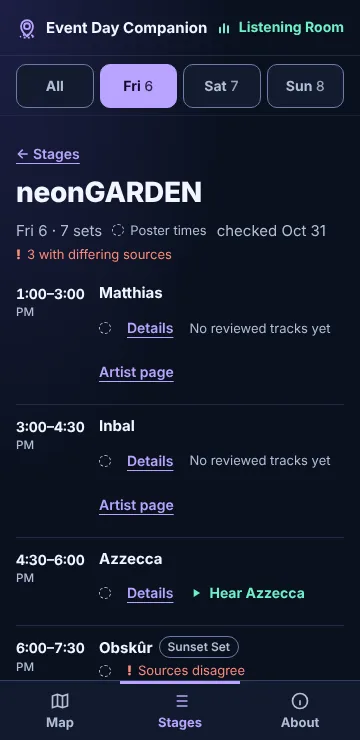
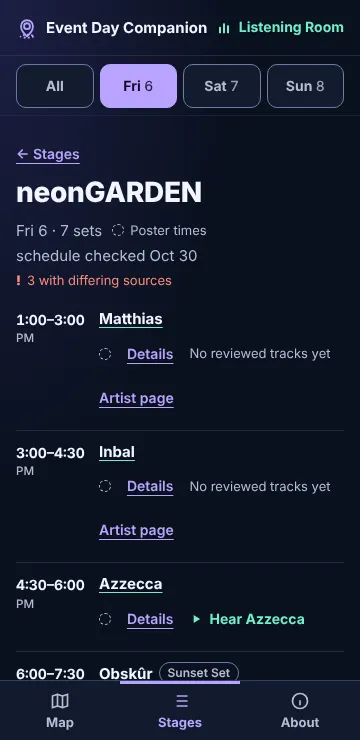
docs(companion): design corrections - wide page wrapper, both meridiems, schedule-source freshness, linked billings; record violet + side panel decisions
Claude-Session: https://claude.ai/code/session_01J577La5FJW7edLV2bkfmxS

diff --git a/docs/companion-design/wireframe/index.html b/docs/companion-design/wireframe/index.html
@@ -111,6 +111,10 @@ ul.sets{list-style:none;margin:0;padding:0}
 .peek-next b{color:var(--text);font-variant-numeric:tabular-nums}
 /* list pages */
 .page{position:absolute;inset:0;overflow:auto;padding:16px var(--gutter) 24px}
+.page-inner,.page>*{max-width:760px;margin-left:auto;margin-right:auto}
+.page-inner>*{max-width:none}
+.billing-link{color:var(--text);text-decoration:underline;text-decoration-color:var(--mint);text-underline-offset:3px}
+.billing-link:hover{color:var(--mint)}
 .page h1{font-family:var(--display);font-weight:800;font-size:clamp(1.5rem,5vw,2rem);letter-spacing:-.015em;margin-bottom:4px}
 .page .lede{color:var(--muted);font-size:.9375rem;margin-bottom:14px;max-width:40em}
 ul.stages{list-style:none;padding:0;margin:0}
@@ -153,7 +157,7 @@ dl.legend dd{margin:0;color:var(--muted);font-size:.875rem}
   .grab{display:none}
   .sheet-body{padding-top:16px}
   .attrib{bottom:12px}
-  .page{padding-inline:max(var(--gutter),calc((100% - 760px)/2))}
+  .page{padding-inline:var(--gutter)}
 }
 @media (max-height:480px) and (orientation:landscape){
   :root{--days:52px;--tabbar:0px;--header:48px}
@@ -270,12 +274,35 @@ function hearLinks(p, day){
 function timeCell(p){
   if (!p.starts_at && !p.ends_at) return `<span class="time" aria-label="Time unknown">—</span>`;
   if (p.starts_at && !p.ends_at) return `<span class="time">from ${t(p.starts_at)}<small>${ampm(p.starts_at)}</small></span>`;
-  return `<span class="time">${t(p.starts_at)}–${t(p.ends_at)}<small>${ampm(p.ends_at)}</small></span>`;
+  // Show both meridiems when they differ (e.g. 10:30 PM–12:00 AM), otherwise once.
+  const a = ampm(p.starts_at), b = ampm(p.ends_at);
+  return a === b ? `<span class="time">${t(p.starts_at)}–${t(p.ends_at)}<small>${b}</small></span>`
+    : `<span class="time">${t(p.starts_at)} ${a}–<br>${t(p.ends_at)}<small>${b}</small></span>`;
+}
+// Schedule freshness comes from the schedule source(s) the sets cite, never from the lineup snapshot date.
+const shortDate = d => new Date(d+"T12:00:00").toLocaleDateString("en-US",{month:"short",day:"numeric"});
+function scheduleFreshness(list){
+  const dates = new Set(); let missing = false;
+  list.forEach(p => { const srcs = (p.source_ids||[]).map(id => D.sources.find(s => s.source_id === id)).filter(s => s && s.kind !== "organizer_day_list");
+    if (!srcs.length) missing = true; srcs.forEach(s => s.checked_on ? dates.add(s.checked_on) : (missing = true)); });
+  const ds = [...dates].sort();
+  if (!ds.length) return "schedule source date unknown";
+  const txt = ds.length === 1 ? "schedule checked " + shortDate(ds[0]) : "schedule sources checked " + shortDate(ds[0]) + "–" + shortDate(ds[ds.length-1]);
+  return missing ? txt + " (some sets undated)" : txt;
+}
+// Billing names navigate: one credited identity -> the billing links to Listening Room; several -> each participant name links.
+function billingHTML(p, day){
+  const ids = credited(p), shown = p.display_name.replace(" ("+p.set_qualifier+")","");
+  if (!ids.length) return esc(shown);
+  if (ids.length === 1) return `<a class="billing-link" href="${lrArtist(ids[0], day)}">${esc(shown)}</a>`;
+  let html = esc(shown), linked = 0;
+  ids.forEach(i => { const n = esc(D.artists[i].name); if (html.includes(n)) { html = html.replace(n, `<a class="billing-link" href="${lrArtist(i, day)}">${n}</a>`); linked++; } });
+  return linked === ids.length ? html : esc(shown) + `<span class="none"> · ${ids.map(i => `<a class="billing-link" href="${lrArtist(i, day)}">${esc(D.artists[i].name)}</a>`).join(" · ")}</span>`;
 }
 function setRow(p, r, common){
   const qual = p.set_qualifier ? `<span class="chip">${esc(p.set_qualifier)}</span>` : "";
   const details = build({...r, view: r.view === "stage" ? "stage" : "map", set: p.performance_id, artist: ""});
-  return `<li class="set">${timeCell(p)}<div><div class="billing">${esc(p.display_name.replace(" ("+p.set_qualifier+")",""))}${qual}</div>
+  return `<li class="set">${timeCell(p)}<div><div class="billing">${billingHTML(p, r.day)}${qual}</div>
     <div class="acts">${badge(p, common)}${conflictNote(p)}<a class="link" href="${details}">Details<span class="sr-only"> for ${esc(p.display_name)}</span></a>${hearLinks(p, r.day)}</div></div></li>`;
 }
 function setList(stage, r){
@@ -301,7 +328,7 @@ function summary(stage, day){
   const list = setsFor(stage, day); const kinds = new Set(list.map(p => p.schedule_status));
   const src = !list.length ? "" : kinds.size > 1 ? `<span class="st disputed">Mixed sources</span>` : badge(list[0]).replace("Poster time","Poster times");
   const nConf = list.filter(conflict).length;
-  return `<span>${day === "all" ? "All days" : dayOf(day).label + " " + dayOf(day).num} · ${list.length ? list.length + " set" + (list.length>1?"s":"") : "no confirmed sets"}</span>${src}<span>checked ${new Date(D.checked_on+"T12:00:00").toLocaleDateString("en-US",{month:"short",day:"numeric"})}</span>${nConf ? `<span class="st disputed">${nConf} with differing sources</span>` : ""}`;
+  return `<span>${day === "all" ? "All days" : dayOf(day).label + " " + dayOf(day).num} · ${list.length ? list.length + " set" + (list.length>1?"s":"") : "no confirmed sets"}</span>${src}<span>${scheduleFreshness(list)}</span>${nConf ? `<span class="st disputed">${nConf} with differing sources</span>` : ""}`;
 }
 
 /* ---------- views ---------- */
@@ -321,7 +348,7 @@ function mapView(r){
         <button type="button" data-z="reset" aria-label="Reset map view">${ico("reset")}</button>
         <button type="button" data-z="list" aria-label="Show stage list">${ico("list")}</button>
       </div>
-      <a class="attrib" href="#/sources">${ico("info",14)} Unofficial sketch · positions approximate · checked ${new Date(D.checked_on+"T12:00:00").toLocaleDateString("en-US",{month:"short",day:"numeric"})}</a>`}
+      <a class="attrib" href="#/sources">${ico("info",14)} Unofficial sketch · positions approximate · geometry checked ${shortDate(D.map.geometry.checked_on)}</a>`}
       <section class="sheet" id="sheet" aria-labelledby="sheet-title" data-size="peek"><button class="grab" type="button" id="grab" aria-expanded="false" aria-label="Expand stage details"></button><div class="sheet-body" id="sheet-body"></div></section>`;
     D.stages.forEach(s => {
       const b = document.createElement("button"); b.type = "button"; b.className = "hs"; b.dataset.stage = s.stage_id;
@@ -387,7 +414,7 @@ function artistPanel(r){
 function mapUnavailable(r){
   if (r.stage && r.stage !== "?") { history.replaceState(null, "", build({view:"stage", id:r.stage, day:r.day, set:r.set, artist:r.artist})); return render(); }
   if (r.set || r.artist) { const main = $("#main"); main.classList.remove("with-panel");
-    main.innerHTML = `<div class="page" style="max-width:760px">${artistPanel(r)}</div>`; return; }
+    main.innerHTML = `<div class="page"><div class="page-inner">${artistPanel(r)}</div></div>`; return; }
   stagesView(r, `<div class="empty" style="margin:0 0 14px"><p><b>Map coming later.</b> Stage positions haven't been verified yet, so we show the stage list instead of guessing. For the official map, visit the <a href="https://orlando.edc.com/" target="_blank" rel="noopener noreferrer">organizer's website ↗</a>.</p></div>`);
 }
 function stagesView(r, notice){
@@ -400,10 +427,10 @@ function stagesView(r, notice){
 function stagePage(r){
   const main = $("#main"); main.classList.remove("with-panel");
   if (!D.stages.some(s => s.stage_id === r.id)) { main.innerHTML = `<div class="page"><div class="empty"><p>That stage or set isn't in the current schedule.</p><a class="btn" href="#/stages">Show all stages</a></div></div>`; return; }
-  main.innerHTML = `<div class="page" style="max-width:760px"><a class="link" href="${build({view:"stages", day:r.day})}">← Stages</a>
+  main.innerHTML = `<div class="page"><div class="page-inner"><a class="link" href="${build({view:"stages", day:r.day})}">← Stages</a>
     <div class="sheet-head"><h2 id="sheet-title" tabindex="-1" style="font-size:1.75rem">${esc(stageName(r.id))}</h2></div>
     <p class="sub">${summary(r.id, r.day)}</p><div>${r.set || r.artist ? artistPanel({...r, stage:r.id}) : setList(r.id, {...r, stage:r.id})}</div>
-    ${MAP_ON ? `<p style="margin-top:12px"><a class="link" href="${build({view:"map", stage:r.id, day:r.day})}">Show on map</a></p>` : ""}</div>`;
+    ${MAP_ON ? `<p style="margin-top:12px"><a class="link" href="${build({view:"map", stage:r.id, day:r.day})}">Show on map</a></p>` : ""}</div></div>`;
 }
 function unscheduledView(r){
   const main = $("#main"); main.classList.remove("with-panel"); const list = unscheduled(r.day).sort((a,b) => a.display_name.localeCompare(b.display_name));
@@ -419,7 +446,7 @@ function sourcesView(){
       <p>For the official map and updates, visit the <a href="https://orlando.edc.com/" target="_blank" rel="noopener noreferrer">organizer's website ↗</a>.</p></section>
     <section><h2>What the labels mean</h2><dl class="legend">
       <dt><span class="st confirmed">Confirmed</span></dt><dd>Verified against an organizer source. (None yet in this reference.)</dd>
-      <dt><span class="st poster">Poster time</span></dt><dd>Read from a published set-time poster (checked ${new Date(D.checked_on+"T12:00:00").toLocaleDateString("en-US",{month:"short",day:"numeric"})}). May change.</dd>
+      <dt><span class="st poster">Poster time</span></dt><dd>Read from a published set-time poster (${D.sources.filter(x => x.kind === "poster_transcription").map(x => "checked " + shortDate(x.checked_on)).join(", ") || "date unknown"}). May change.</dd>
       <dt><span class="st unannounced">Time unknown</span></dt><dd>On the current lineup, but this reference has no sourced stage or time. Check the organizer for updates.</dd>
       <dt><span class="st disputed">Sources disagree</span></dt><dd>The current lineup and the poster differ (for example a set name). We show both.</dd></dl></section>
     <section><h2>Music</h2><p>"Hear" links open <a href="${LR}#/lineup" style="color:var(--mint)">Listening Room</a>, which has reviewed recordings for each artist. Those are not the live set.</p></section>
